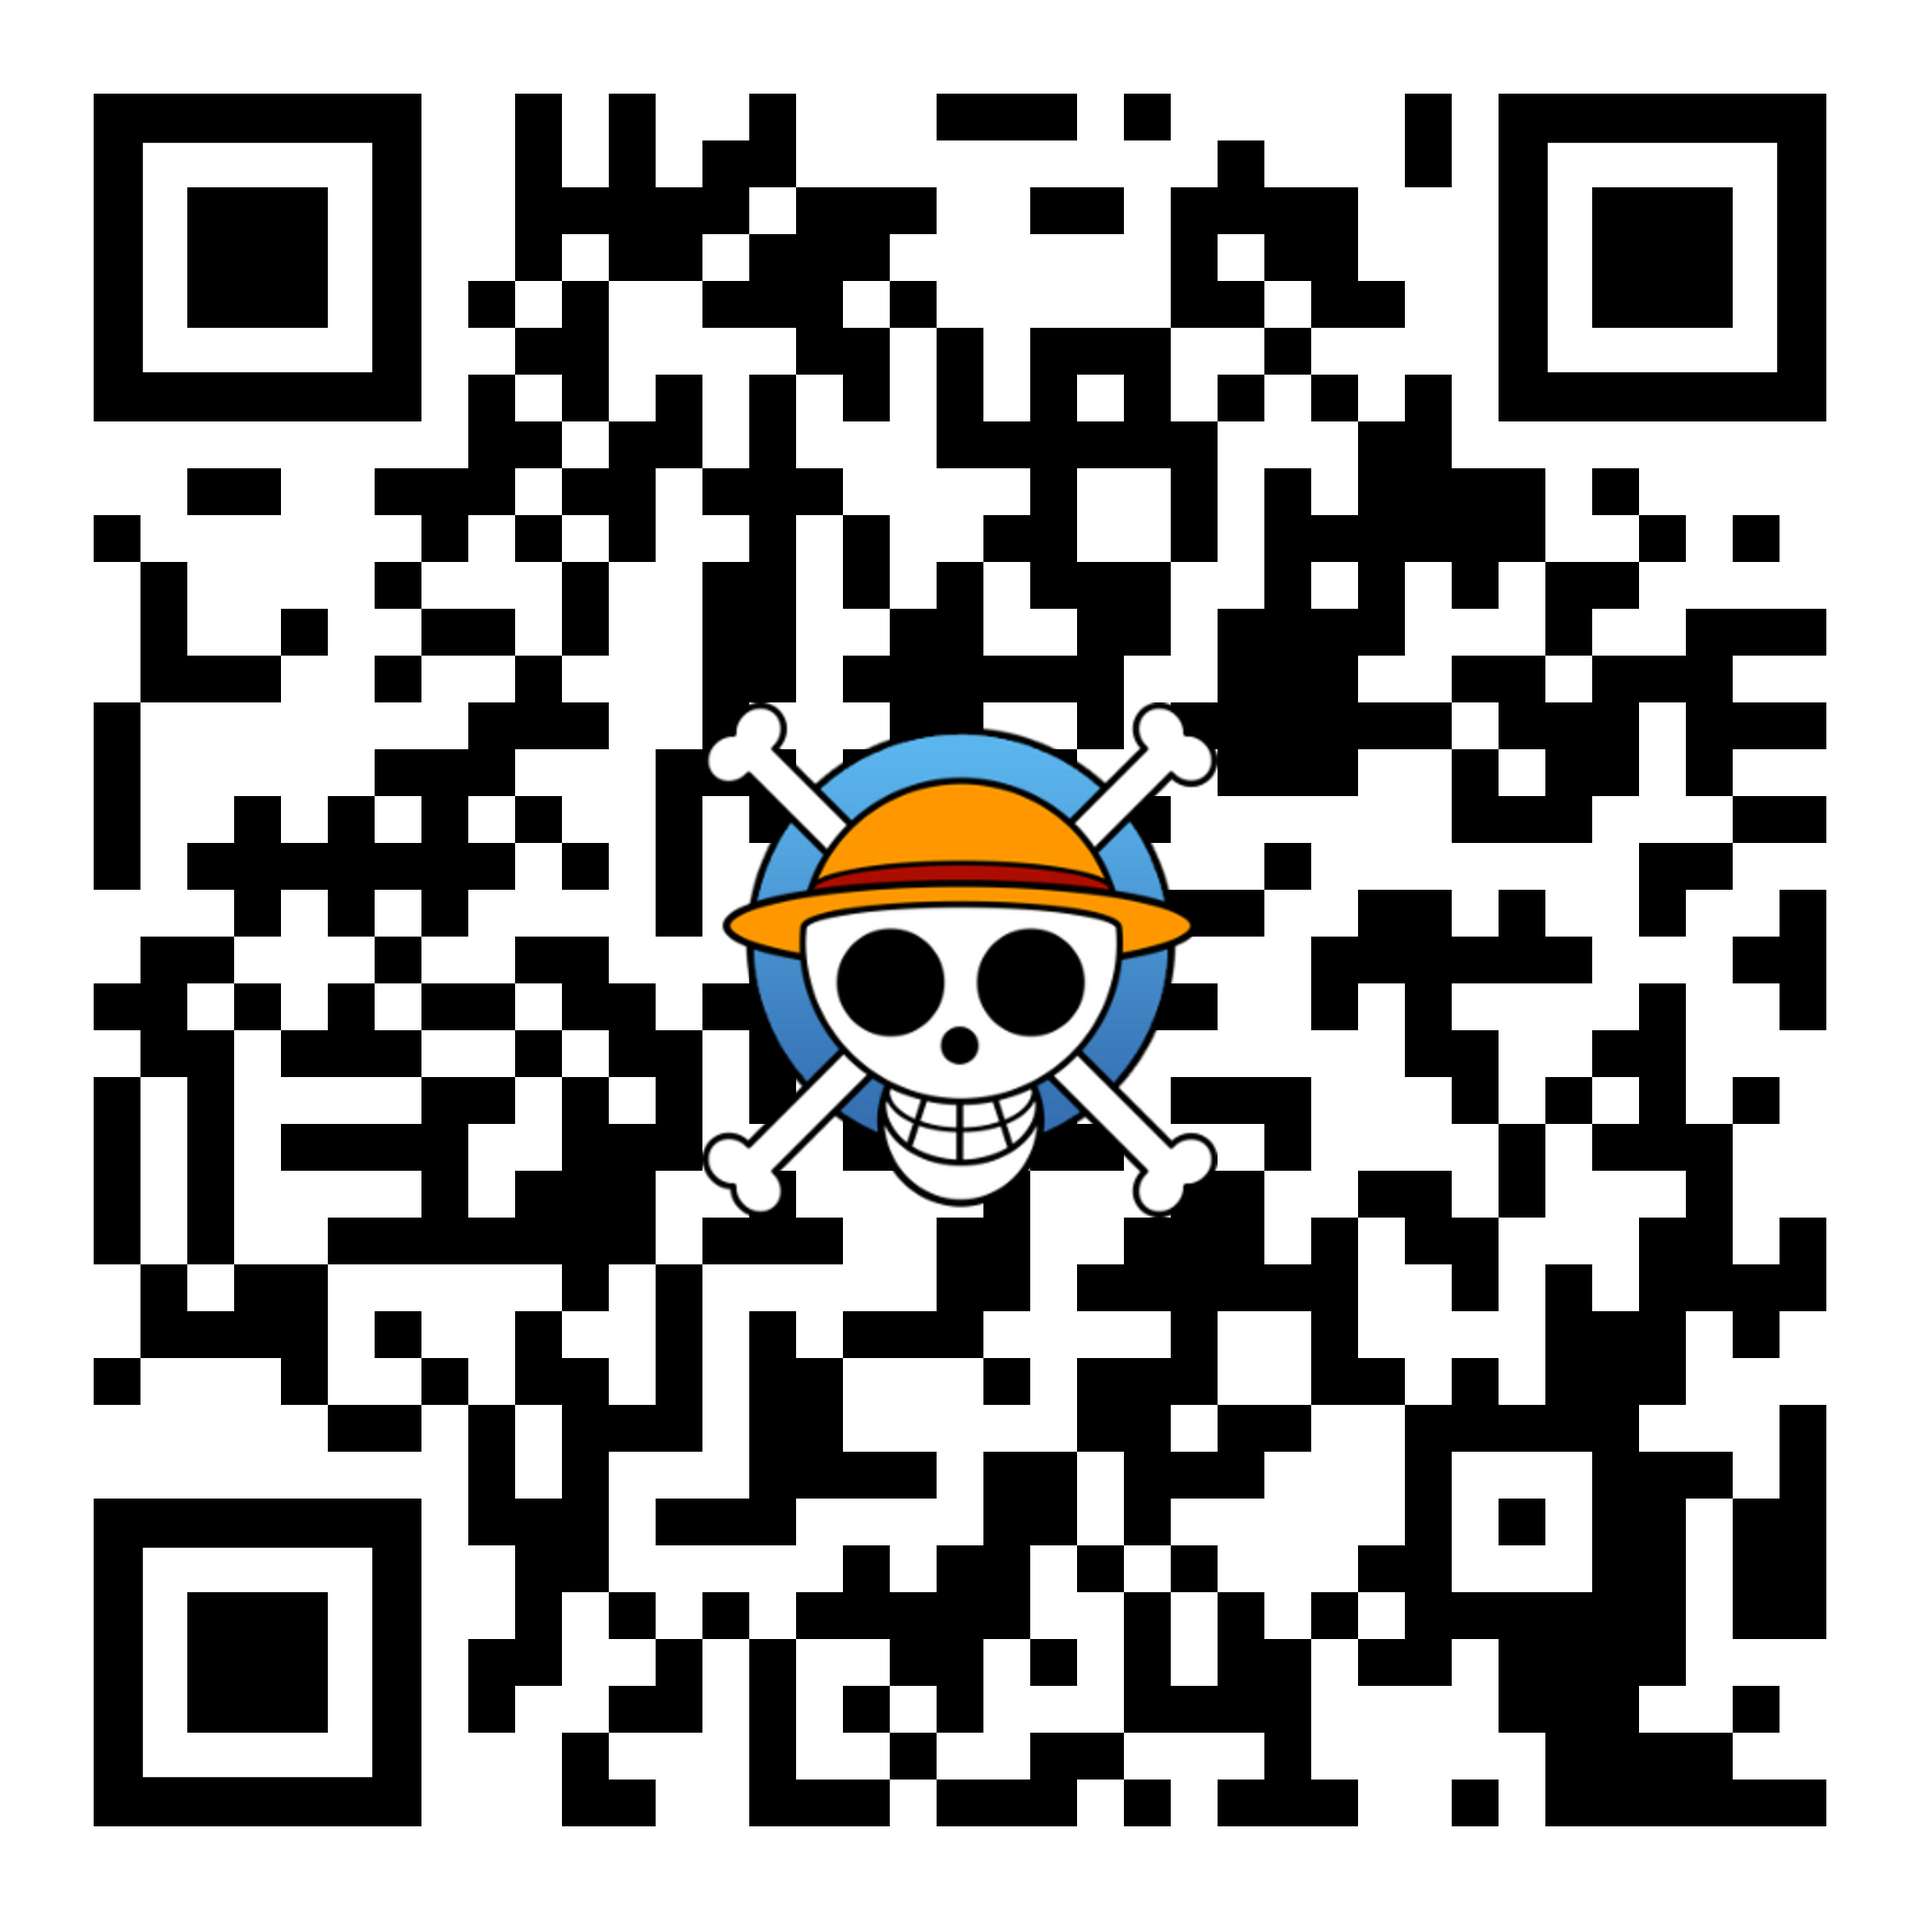
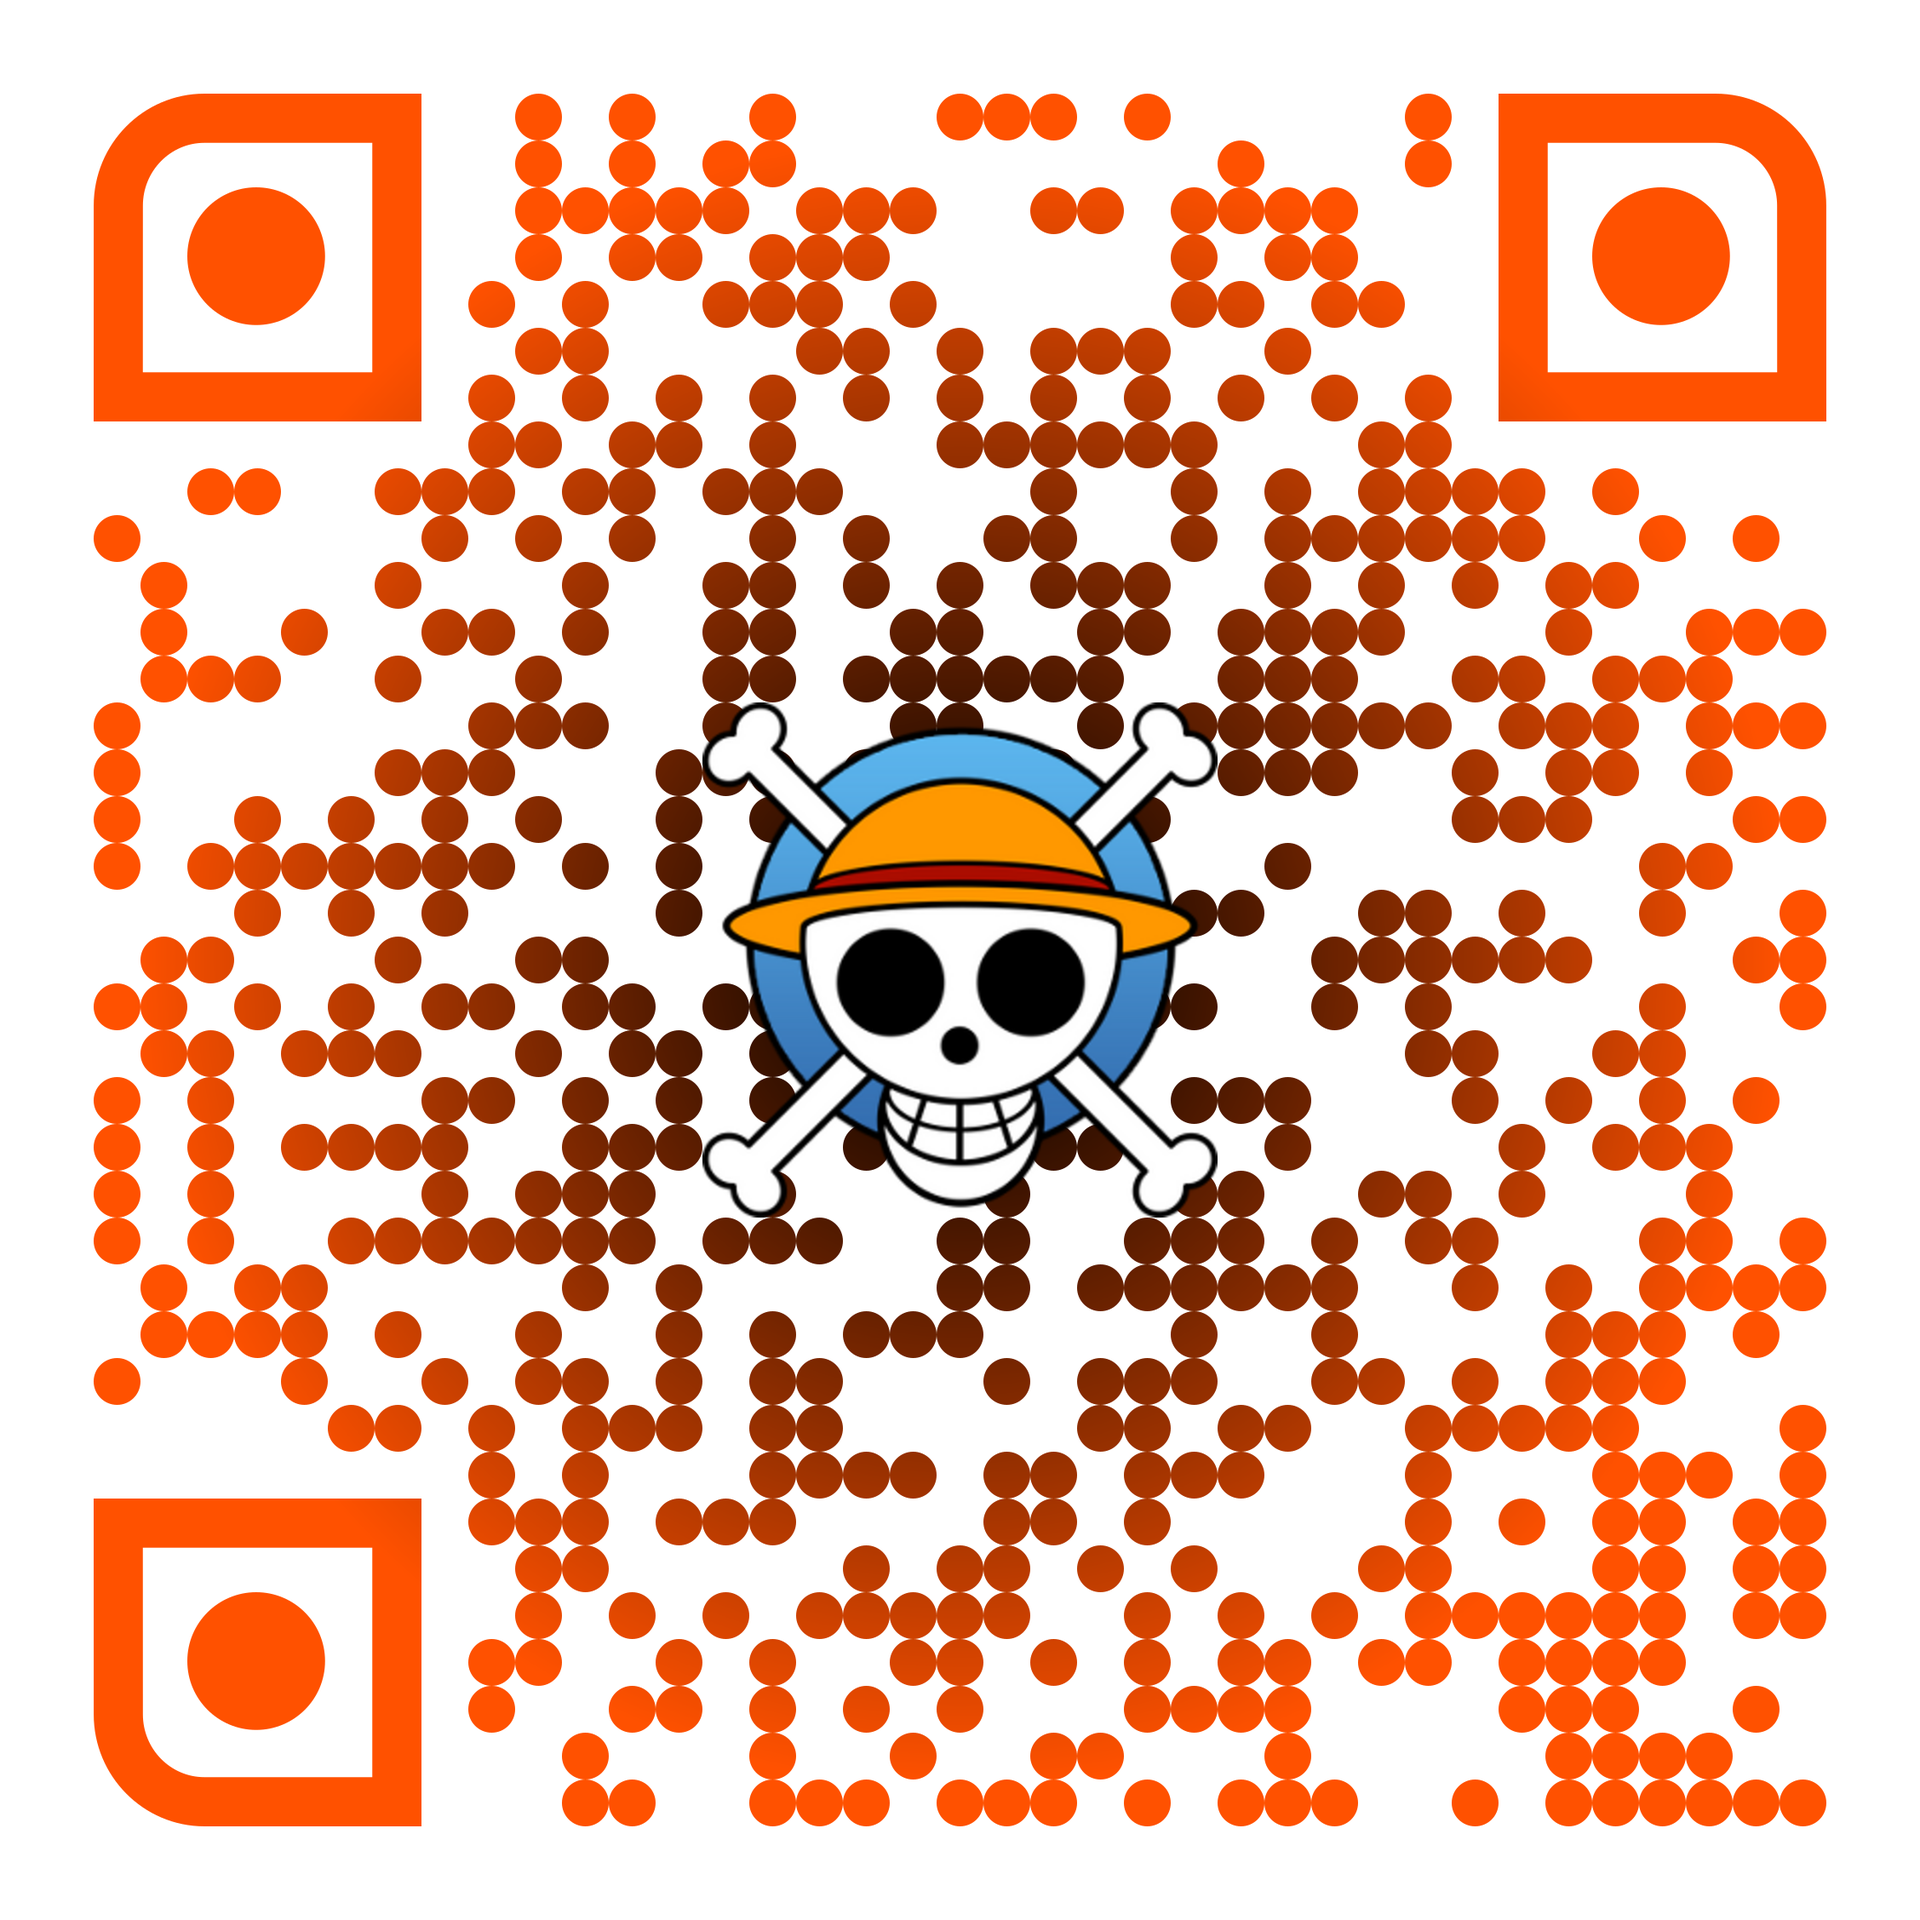
Add license, update of QR code and README.md

diff --git a/README.md b/README.md
@@ -1,7 +1,17 @@
 # One Piece
 
-* First personal project using HTML / CSS.
-* The site is a link aggregator about One Piece information.
-* [Link](https://one-piece-links.vercel.app/)
-* QR Code:
+## Informações
+
+- Primeiro projeto pessoal usando HTML / CSS.
+- O site é um agregador de links sobre informações de One Piece.
+- Site utilizado para criar o QR code: [QRCode Monkey](https://www.qrcode-monkey.com/).
+
+## Informations
+
+- First personal project using HTML / CSS.
+- The website is a link aggregator about One Piece information.
+- Website used to create the QR code: [QRCode Monkey](https://www.qrcode-monkey.com/).
+
+## QR Code:
+
 ![QR Code](https://github.com/Dougu77/one-piece/blob/main/qr-code.png)
